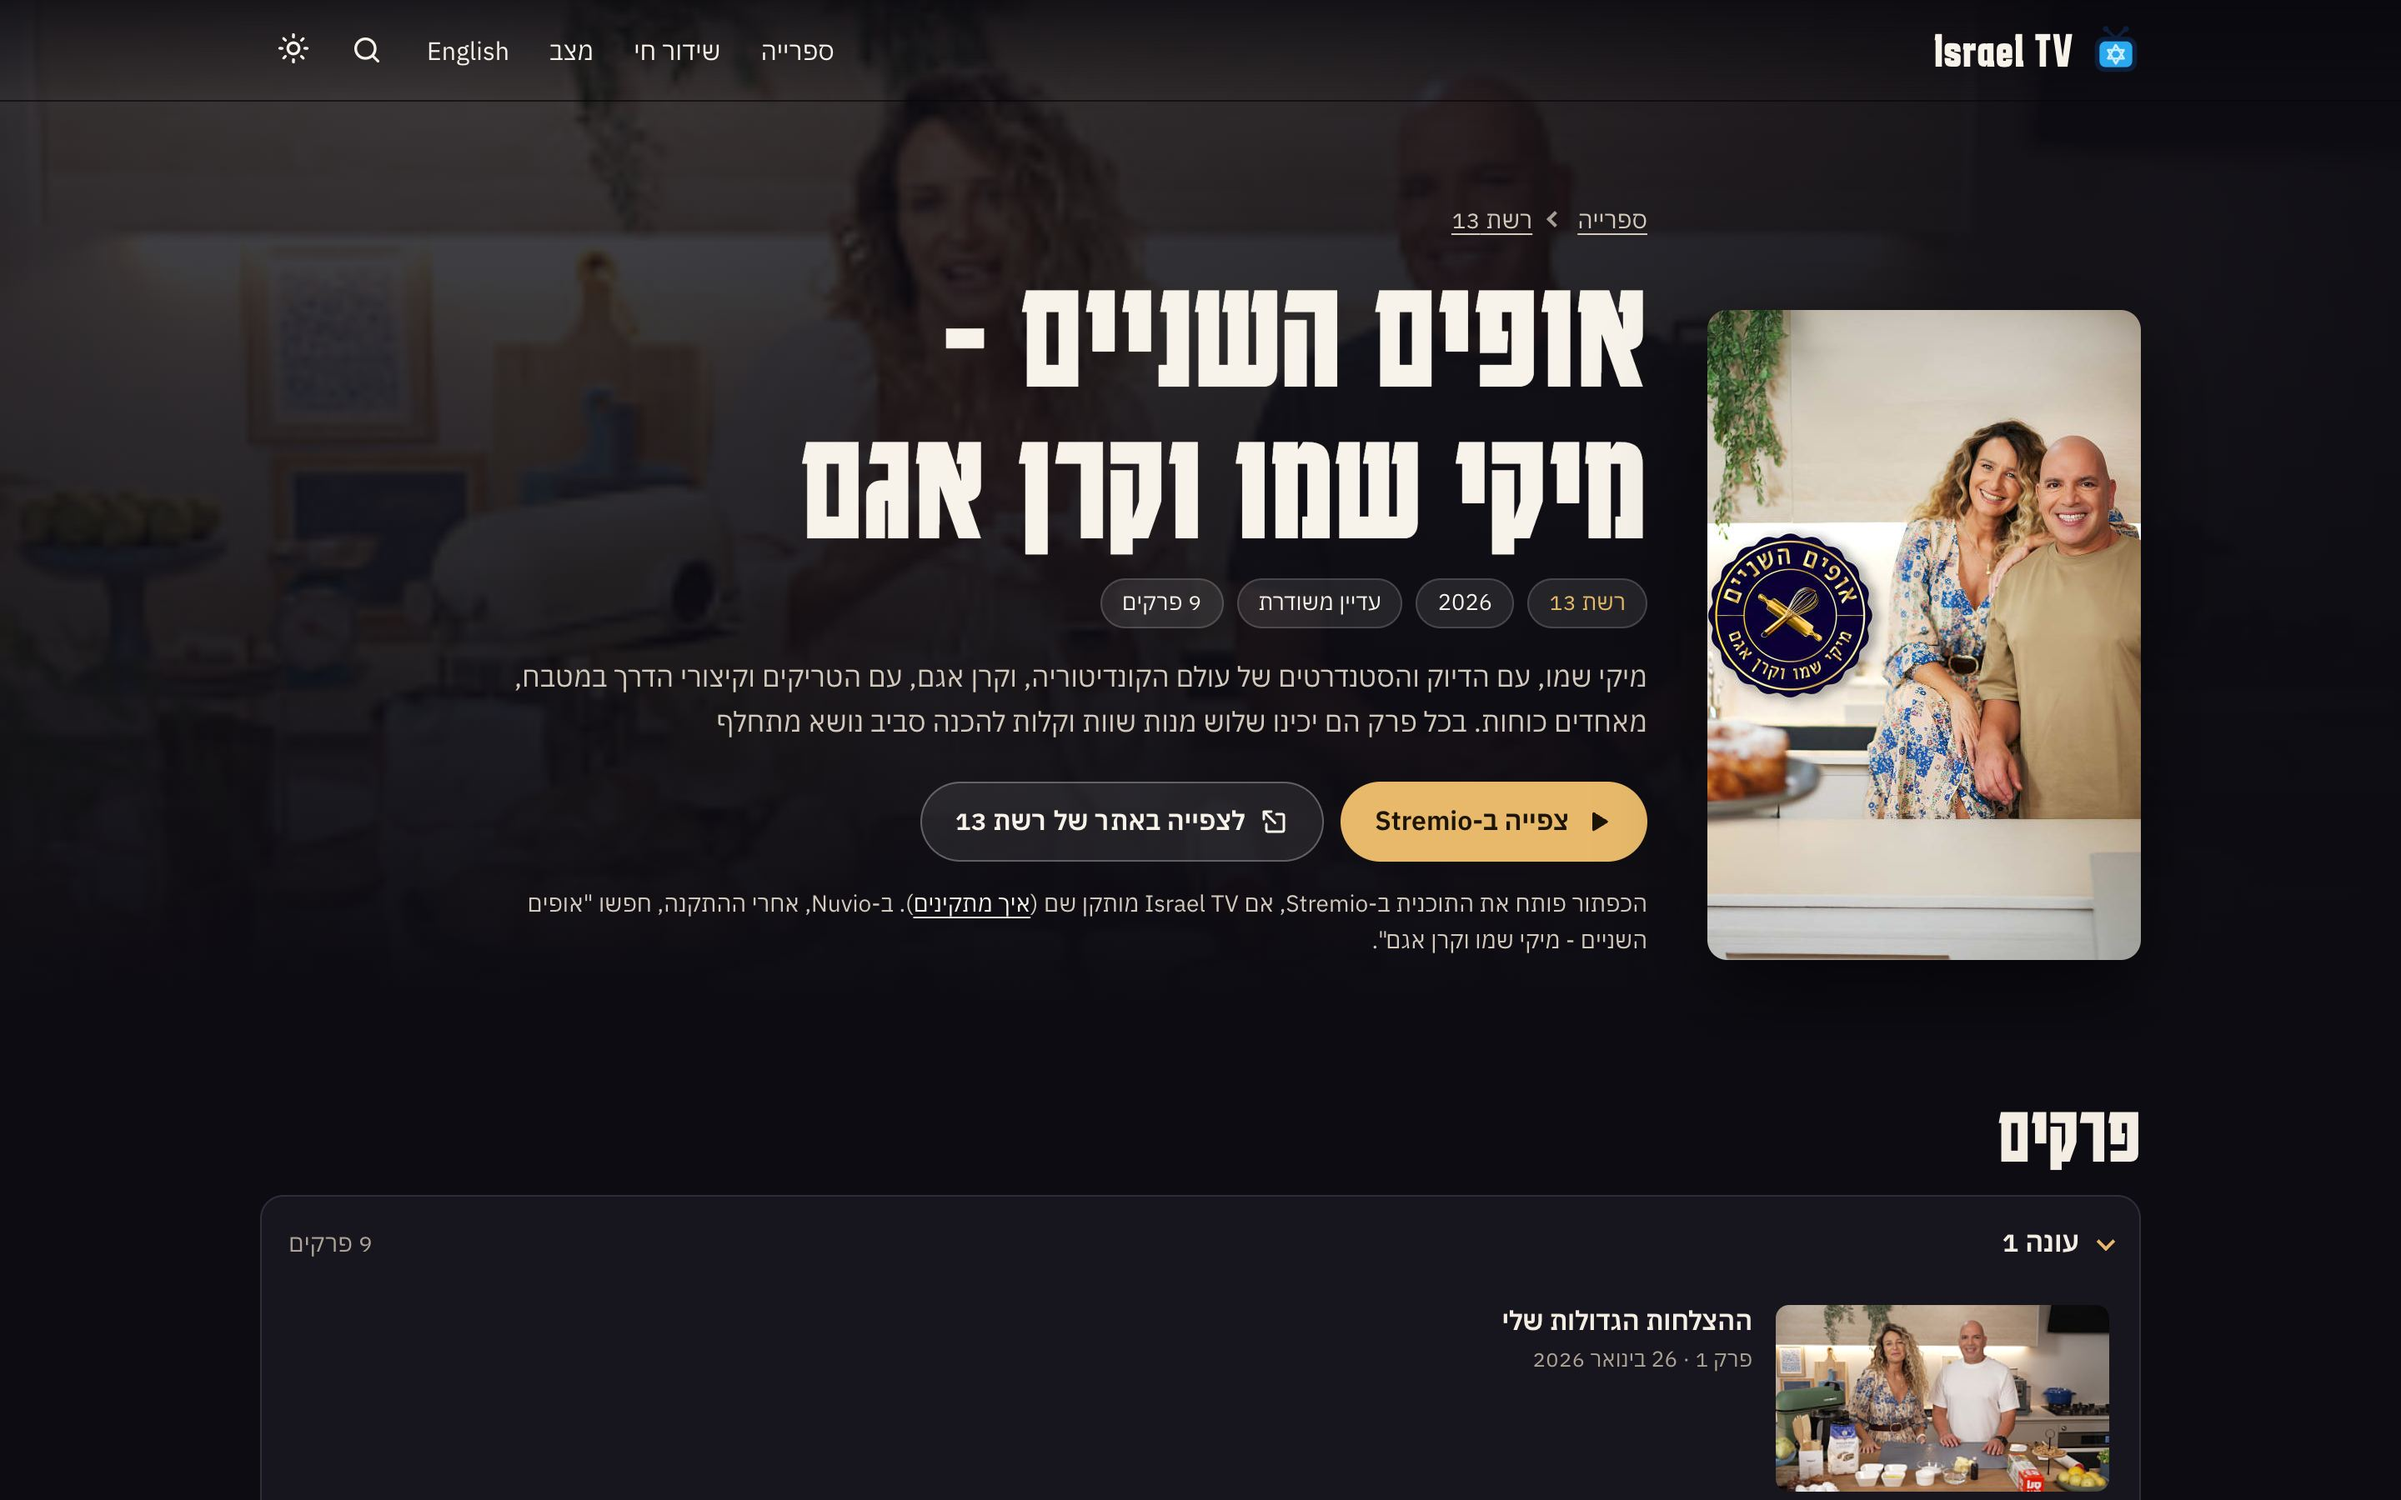
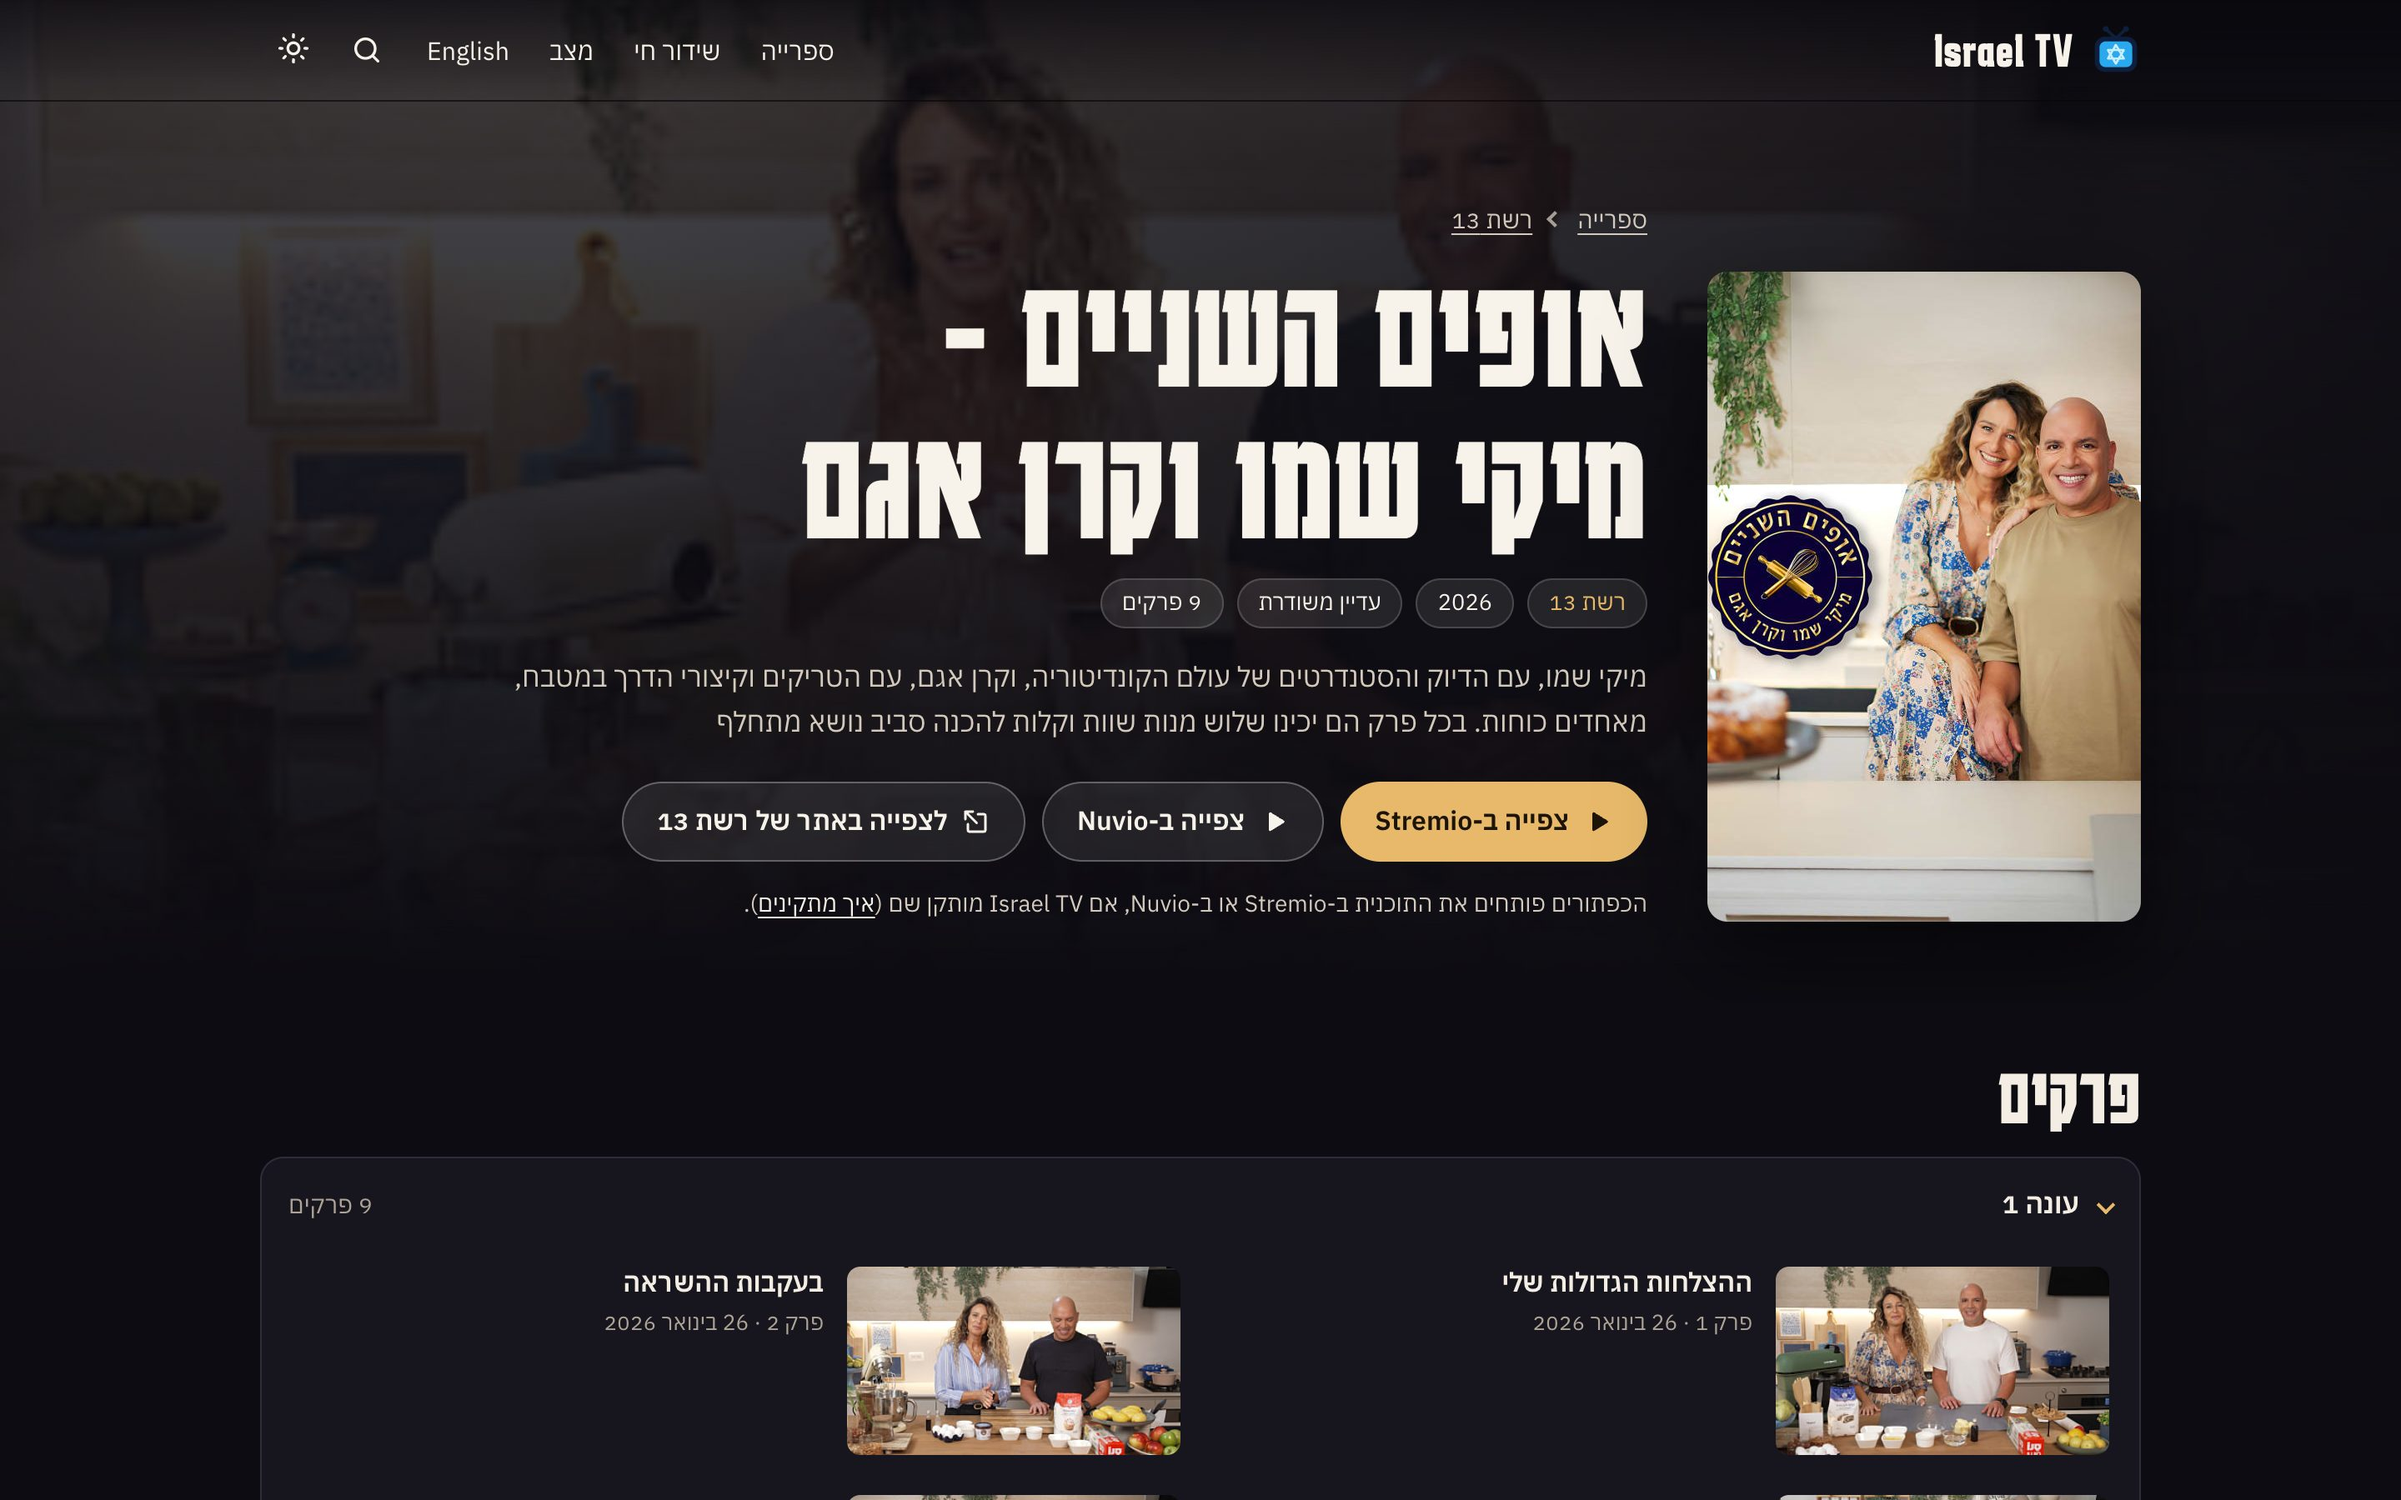
docs: README show screenshot with the Nuvio button; release notes in plain sections (#191)
Release notes now list only what viewers notice (New, Fixed, Faster); docs,
chores, tests and CI changes stay in the history, not the notes.

diff --git a/README.md b/README.md
@@ -16,12 +16,12 @@ for. (Keshet 12, and some titles when you are abroad, need a little extra setup 
 <p>
 <a href="https://israel-tv.israeltv2.workers.dev/he/"><img src="docs/images/site-landing-desktop.jpg" alt="The Israel TV website: real show posters drifting behind the headline, install in one click, and what every live channel is airing now" width="49%"></a>
 <a href="https://israel-tv.israeltv2.workers.dev/library/"><img src="docs/images/site-library-desktop.jpg" alt="The library: every row of shows, and the live channels with what is on now" width="49%"></a>
-<a href="https://israel-tv.israeltv2.workers.dev/show/iltv_reshet_10/"><img src="docs/images/site-show-desktop.jpg" alt="A show's page: poster, description, seasons and episodes, Watch in Stremio and on the broadcaster's site" width="49%"></a>
+<a href="https://israel-tv.israeltv2.workers.dev/show/iltv_reshet_10/"><img src="docs/images/site-show-desktop.jpg" alt="A show's page: poster, description, seasons and episodes, Watch in Stremio, in Nuvio and on the broadcaster's site" width="49%"></a>
 <a href="https://israel-tv.israeltv2.workers.dev/status"><img src="docs/images/site-status-desktop.jpg" alt="The status page: everything working, each channel's refreshes and the last 30 days" width="49%"></a>
 </p>
 
 The website shows the whole catalog (every show, its episodes, the live guide), but plays nothing itself: its
-buttons open the show in Stremio or on the broadcaster's own site.
+buttons open the show in Stremio, in Nuvio or on the broadcaster's own site.
 
 ## Install
 
